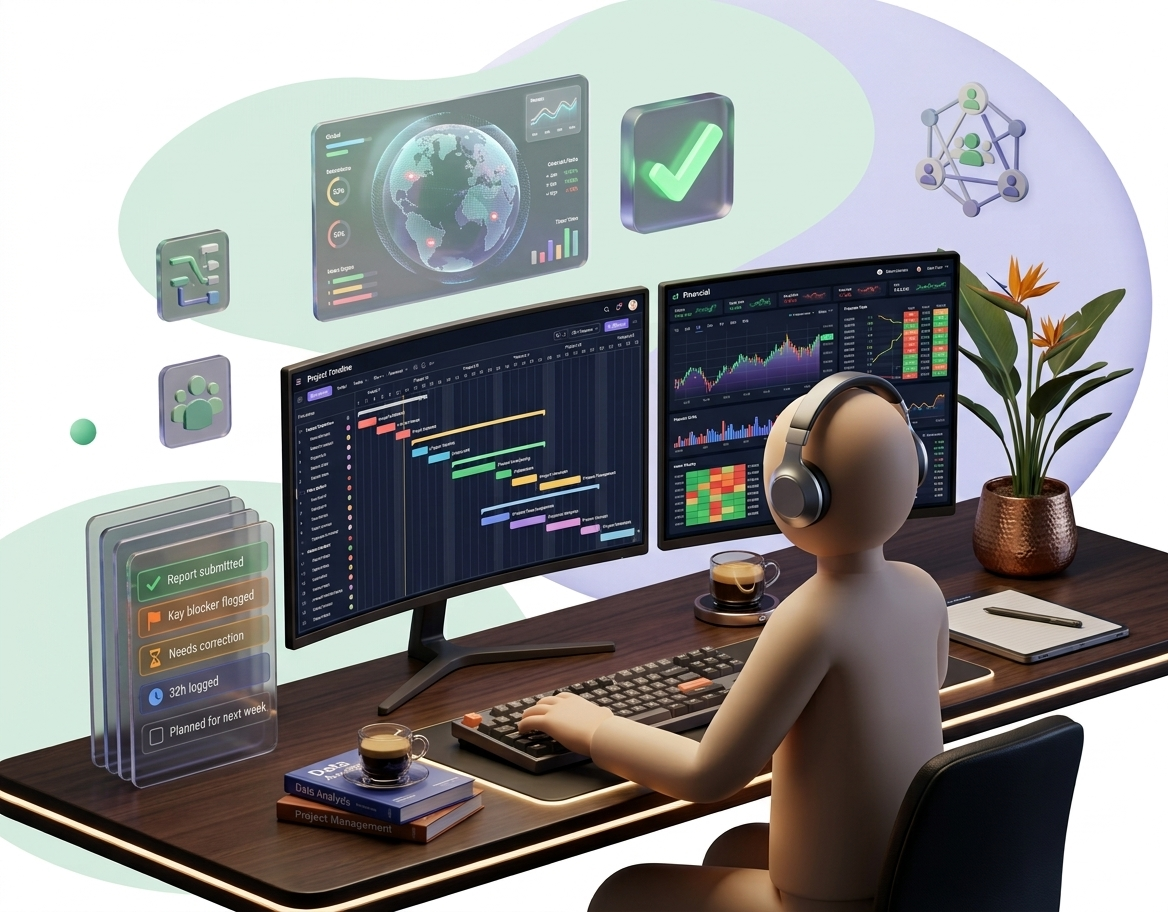
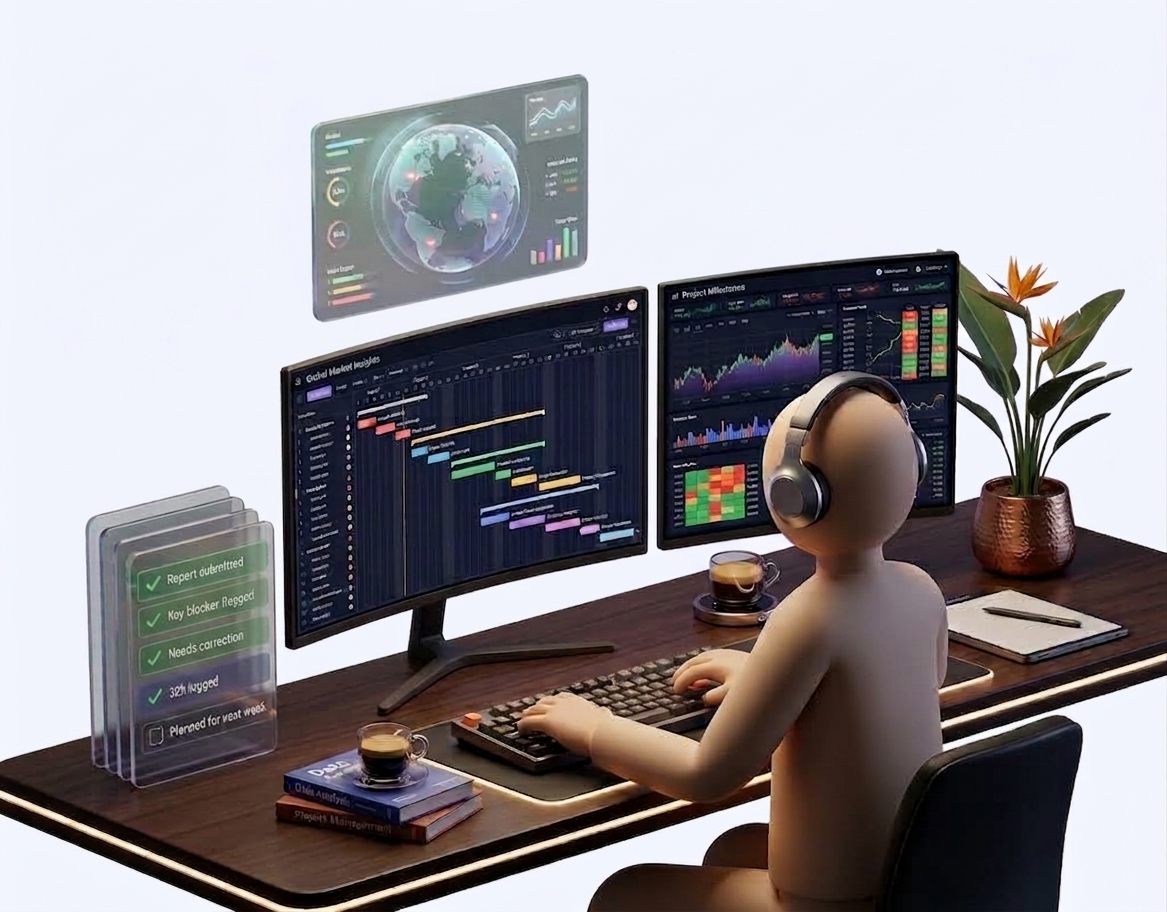
Run the auth illustration to the full width of its panel
It was sized with `fill` plus object-contain, which fits a picture inside its
box and centres it. The box is proportionally taller than the image, so the
fitting happened on width and left a margin down both sides — the gap either
side of the desk in the panel.

Sized to the panel's width now, with the image's own aspect ratio choosing the
height, so it meets both edges. mt-auto keeps it on the bottom when there is
height to spare and collapses when there is not, so a short viewport overflows
and is clipped at the bottom by the aside rather than shrinking the picture.
The desk is already drawn running off that edge, so the crop reads as part of
the composition.

Nothing else in the panel changes.

diff --git a/frontend/src/app/(auth)/layout.tsx b/frontend/src/app/(auth)/layout.tsx
@@ -53,13 +53,18 @@ export default function AuthLayout({ children }: Readonly<{ children: ReactNode 
         </div>
 
         {/*
-          The illustration takes whatever height is left and sits on the bottom
-          edge, so the cropped desk continues off the panel instead of stopping
-          at one. object-contain leaves room at the sides on a wide panel,
-          which is invisible here: the image ground and the panel are the same
-          white.
+          Sized to the panel's full width, with its own aspect ratio choosing
+          the height — not `fill` with object-contain, which fits the image
+          inside the box and leaves a margin down both sides whenever the box
+          is proportionally taller than the picture.
+
+          mt-auto pushes it to the bottom when there is room to spare, and
+          collapses to nothing when there is not, so on a short viewport the
+          image overflows the bottom of the panel and is clipped there by the
+          aside. The desk is already drawn running off that edge, so the crop
+          reads as part of the picture.
         */}
-        <div className="relative mt-8 min-h-0 flex-1">
+        <div className="mt-auto pt-8">
           <Image
             src={illustration}
             alt=""
@@ -70,9 +75,8 @@ export default function AuthLayout({ children }: Readonly<{ children: ReactNode 
             // Statically imported, so the intrinsic size is known at build
             // time and this cannot shift layout while it loads.
             placeholder="blur"
-            fill
             sizes="(min-width: 1024px) 50vw, 1px"
-            className="object-contain object-bottom"
+            className="h-auto w-full"
           />
         </div>
       </aside>
